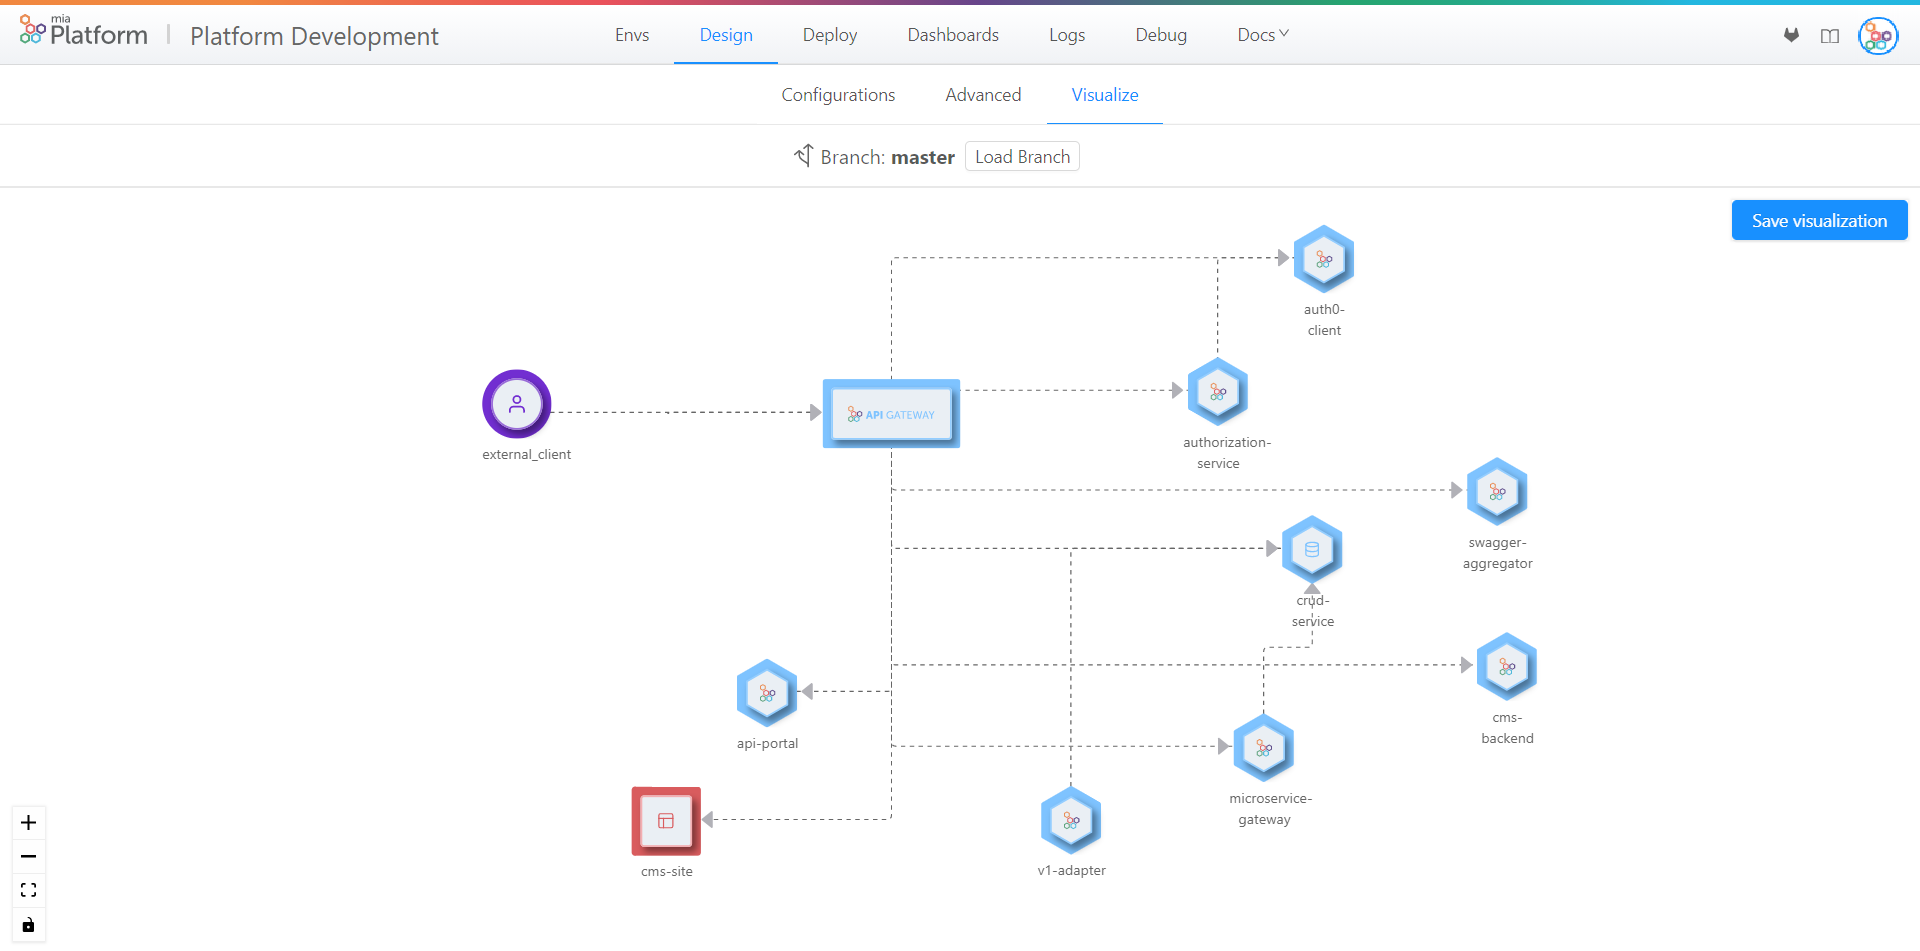
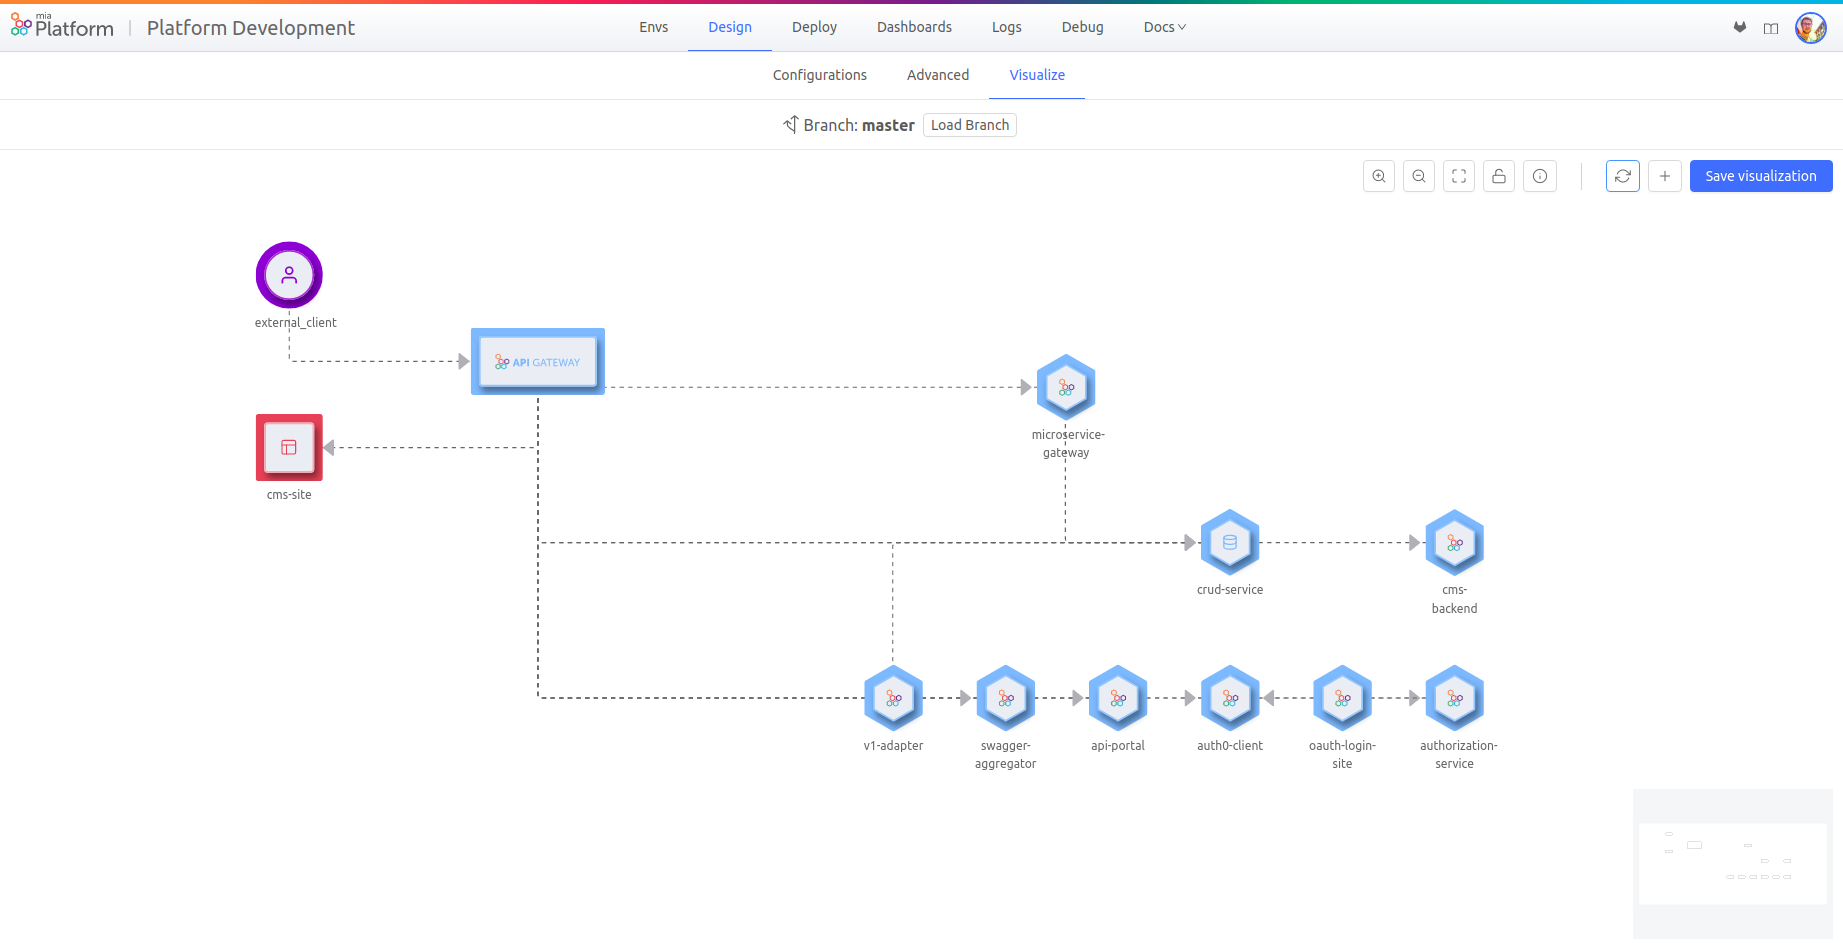
Added new sections to the documentation of Mia Craft

diff --git a/docs/development_suite/api-console/api-design/miacraft.md b/docs/development_suite/api-console/api-design/miacraft.md
@@ -17,12 +17,13 @@ All the icons shown correspond to a specific type of microservice except for the
 
 | Icon      | Description |
 | :-----------: | ----------- |
-| ![Mia-Craft client-icon](img/client-icon.png)|Client|
-| ![Mia-Craft apigateway-icon](img/apigateway-icon.PNG)|[API Gateway](../../../runtime_suite/api-gateway.md)|
-| ![Mia-Craft service-icon](img/service-icon.png)| Microservices which type is “core” |
-| ![Mia-Craft custom-service-icon](img/custom-service-icon.png)|  Microservices which type is “custom”|
-| ![Mia-Craft crud-icon](img/crud-icon.png)| [CRUD](crud_advanced.md)|
-| ![Mia-Craft cmssite-icon](img/cmssite-icon.png)| [CMS  Site](../../../business_suite/guide_cms.md)|
+| <img src="img/client-icon.png" alt="client-icon" width="100"/>|Client|
+| <img src="img/apigateway-icon.PNG" alt="apigateway-icon" width="180"/>|[API Gateway](../../../runtime_suite/api-gateway.md)|
+| <img src="img/service-icon.png" alt="service-icon" width="100"/> | Microservices which type is “core” |
+| <img src="img/custom-service-icon.png" alt="custom-service-icon" width="100"/>|  Microservices which type is “custom”|
+| <img src="img/crud-icon.png" alt="crud-icon" width="100"/>| [CRUD](crud_advanced.md)|
+| <img src="img/cmssite-icon.png" alt="cmssite-icon" width="100"/> | [CMS  Site](../../../business_suite/guide_cms.md)|
+
 
 ## Main functionalities
 
@@ -52,5 +53,37 @@ If present, the connection between the API Gateway and the Client cannot be remo
 
 The visualization created by the user can be saved and retrieved the next time that the user access this area. This can be done via the 'Save visualization' button on the top right of the window. The new visualization is saved in the project git repository in the file 'mia-craft-config.json'.
 
-![Mia-Craft save-configuration](img/save-configuration.png)
+![Mia-Craft save-configuration](img/save-configuration.gif)
 
+### Reset the generated visualization
+
+The visualization can be brought back to a starting default position at any moment via the reset button, which repositions all the services in a precise way. 
+
+![Mia-Craft reset-configuration](img/reset-configuration.gif)
+
+As it can be seen in the following example, the API Gateway, the CMS site and the Client are going to be positioned on the left and the other services on the right based on the following logic: 
+* in the top area are going to be positioned the services that act as decorators;
+* in the middle is going to be positioned the microservice gateway;
+* in the bottom area are going to be positioned all the other services.
+
+![Mia-Craft reset-configuration-position](img/reset-configuration.png)
+
+### Create external services
+
+In order to better represent the graphical overview of the project architecture, external services can be added. 
+There are four typologies of external services available: Kafka, MongoDB, Redis and Custom. For each of them there is a specific icon and a custom name that a user can specify in the process of creating it. There is no limit in the number of external services that can be created for each typology, however the only constraint is the fact that the custom name chosen for a new external service must be different from the names of the console's services such as api-gateway, cms-site or the names of any custom service created by the user in the Configuration tab.
+
+| Icon      | Description |
+| :-----------: | ----------- |
+| <img src="img/kafka-icon.png" alt="kafka-icon" width="100"/> |Kafka|
+| <img src="img/mongodb-icon.png" alt="mongodb-icon" width="100"/> | Mongo DB |
+| <img src="img/redis-icon.png" alt="redis-icon" width="100"/> |  Redis|
+| <img src="img/custom-external-service-icon.png" alt="custom-external-service-icon" width="100"/> | Custom external service|
+
+The external services can be added as it can be seen in the following representation.
+
+![Mia-Craft create-external-service](img/create-external-service.gif)
+
+Furthermore, the external services can be deleted via the context menu that can be seen by doing a right click on the external service that should be deleted.
+
+![Mia-Craft delete-external-service](img/delete-external-service.gif)
